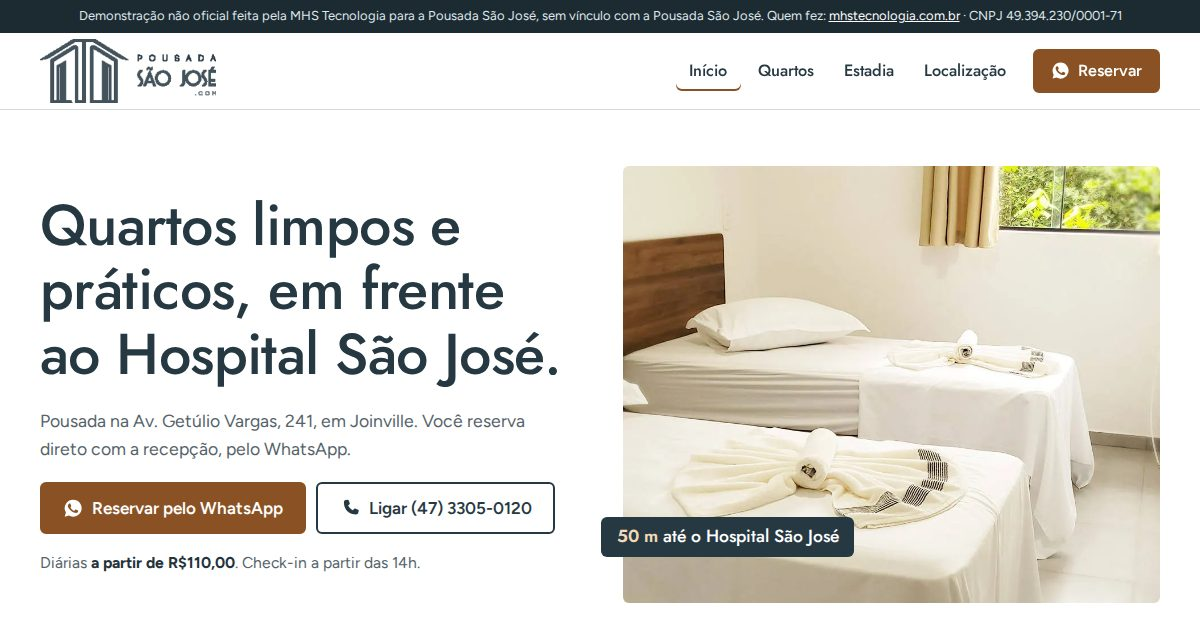
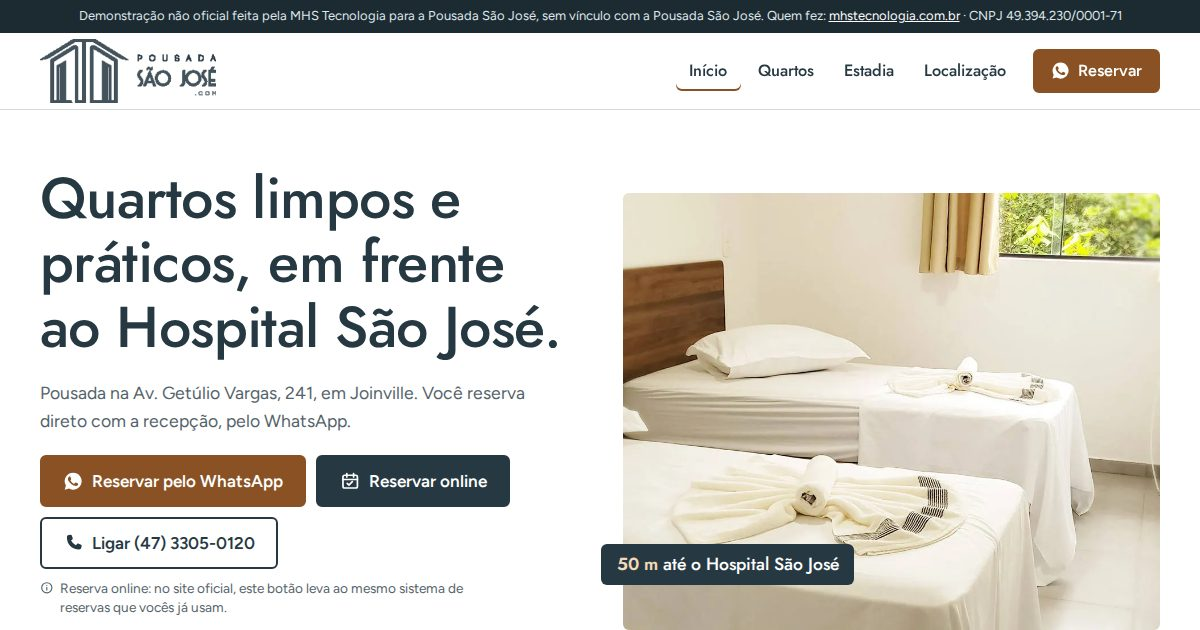
Previews: 90 ativos

diff --git a/pousada-sao-jose-joinville-sc/quartos.html b/pousada-sao-jose-joinville-sc/quartos.html
@@ -30,7 +30,7 @@
     <h1>Os quartos</h1>
     <p class="intro">São 15 quartos, do solteiro aos quartos para grupos. Todos com Wi-Fi gratuito e ar-condicionado, e há quartos para não fumantes: é só avisar na reserva.</p>
     <div class="faixa-preco"><span>a partir de</span><span class="v">R$110,00</span><span>a diária, conforme o quarto</span></div>
-    <div class="acoes" id="cta"><a class="btn" href="https://wa.me/554733050120?text=Ol%C3%A1%21%20Vi%20o%20site%20da%20Pousada%20S%C3%A3o%20Jos%C3%A9%20e%20quero%20consultar%20disponibilidade.%0AEntrada%3A%20%0ASa%C3%ADda%3A%20%0APessoas%3A%20"><svg class="ico" viewBox="0 0 24 24" aria-hidden="true"><path fill="currentColor" d="M12 2a10 10 0 0 0-8.6 15.1L2 22l5-1.3A10 10 0 1 0 12 2Zm5.7 14.2c-.2.7-1.4 1.3-2 1.4-.5.1-1.2.1-1.9-.1-.4-.1-1-.3-1.7-.6-3-1.3-4.9-4.3-5.1-4.5-.1-.2-1.2-1.6-1.2-3 0-1.4.8-2.1 1-2.4.3-.3.6-.4.8-.4h.6c.2 0 .4 0 .6.5l.8 2c.1.2.1.4 0 .6l-.3.5-.4.5c-.1.1-.3.3-.1.6.2.3.8 1.3 1.7 2.1 1.2 1 2.1 1.4 2.4 1.5.3.1.5.1.7-.1l.9-1.1c.2-.3.4-.2.7-.1l1.9.9c.3.1.5.2.6.3.1.2.1.8-.1 1.4Z"/></svg>Consultar disponibilidade</a><a class="btn btn-2" href="tel:+554733050120"><svg class="ico" viewBox="0 0 24 24" aria-hidden="true"><path fill="currentColor" d="M6.6 2.5 9 2c.5-.1 1 .2 1.2.7l1.3 3.5c.2.4 0 .9-.3 1.2L9.5 8.9a13 13 0 0 0 5.6 5.6l1.5-1.7c.3-.3.8-.5 1.2-.3l3.5 1.3c.5.2.8.7.7 1.2l-.5 2.4c-.3 1.2-1.3 2-2.5 2C10.4 19.4 4.6 13.6 4.6 5c0-1.2.8-2.2 2-2.5Z"/></svg>Ligar (47) 3305-0120</a></div>
+    <div class="acoes" id="cta"><a class="btn" href="https://wa.me/554733050120?text=Ol%C3%A1%21%20Vi%20o%20site%20da%20Pousada%20S%C3%A3o%20Jos%C3%A9%20e%20quero%20consultar%20disponibilidade.%0AEntrada%3A%20%0ASa%C3%ADda%3A%20%0APessoas%3A%20"><svg class="ico" viewBox="0 0 24 24" aria-hidden="true"><path fill="currentColor" d="M12 2a10 10 0 0 0-8.6 15.1L2 22l5-1.3A10 10 0 1 0 12 2Zm5.7 14.2c-.2.7-1.4 1.3-2 1.4-.5.1-1.2.1-1.9-.1-.4-.1-1-.3-1.7-.6-3-1.3-4.9-4.3-5.1-4.5-.1-.2-1.2-1.6-1.2-3 0-1.4.8-2.1 1-2.4.3-.3.6-.4.8-.4h.6c.2 0 .4 0 .6.5l.8 2c.1.2.1.4 0 .6l-.3.5-.4.5c-.1.1-.3.3-.1.6.2.3.8 1.3 1.7 2.1 1.2 1 2.1 1.4 2.4 1.5.3.1.5.1.7-.1l.9-1.1c.2-.3.4-.2.7-.1l1.9.9c.3.1.5.2.6.3.1.2.1.8-.1 1.4Z"/></svg>Consultar disponibilidade</a><span class="btn btn-online" aria-disabled="true" title="No site oficial, abre o sistema de reservas da pousada"><svg class="ico" viewBox="0 0 24 24" fill="none" stroke="currentColor" stroke-width="2" stroke-linecap="round" aria-hidden="true"><rect x="3.5" y="5" width="17" height="15" rx="2"/><path d="M3.5 10h17M8 3v4M16 3v4M8.5 14.5l2 2 4-4"/></svg>Reservar online</span><a class="btn btn-2" href="tel:+554733050120"><svg class="ico" viewBox="0 0 24 24" aria-hidden="true"><path fill="currentColor" d="M6.6 2.5 9 2c.5-.1 1 .2 1.2.7l1.3 3.5c.2.4 0 .9-.3 1.2L9.5 8.9a13 13 0 0 0 5.6 5.6l1.5-1.7c.3-.3.8-.5 1.2-.3l3.5 1.3c.5.2.8.7.7 1.2l-.5 2.4c-.3 1.2-1.3 2-2.5 2C10.4 19.4 4.6 13.6 4.6 5c0-1.2.8-2.2 2-2.5Z"/></svg>Ligar<span class="num">&nbsp;(47) 3305-0120</span></a></div><p class="nota-online"><svg class="ico" viewBox="0 0 24 24" fill="none" stroke="currentColor" stroke-width="2" stroke-linecap="round" aria-hidden="true"><circle cx="12" cy="12" r="9"/><path d="M12 11v5M12 8h.01"/></svg>Reserva online: no site oficial, este botão leva ao mesmo sistema de reservas que vocês já usam.</p>
     <h2 style="margin:44px 0 0">Escolha o tipo de quarto</h2>
     <div class="tipos"><article class="tipo com-foto"><figure class="tipo-foto"><img src="img/quarto-janela-944.webp" width="944" height="768" alt="Foto do quarto: 1 cama de solteiro" loading="lazy" decoding="async"></figure><div class="tipo-txt"><h3>Duplo Solteiro A/C</h3><ul class="tipo-l"><li>1 cama de solteiro</li><li>Banheiro compartilhado</li></ul><a class="btn btn-p" href="https://wa.me/554733050120?text=Ol%C3%A1%21%20Vi%20o%20site%20da%20Pousada%20S%C3%A3o%20Jos%C3%A9%20e%20quero%20reservar%20o%20quarto%20Duplo%20Solteiro%20A%2FC.%0AEntrada%3A%20%0ASa%C3%ADda%3A%20%0APessoas%3A%20"><svg class="ico" viewBox="0 0 24 24" aria-hidden="true"><path fill="currentColor" d="M12 2a10 10 0 0 0-8.6 15.1L2 22l5-1.3A10 10 0 1 0 12 2Zm5.7 14.2c-.2.7-1.4 1.3-2 1.4-.5.1-1.2.1-1.9-.1-.4-.1-1-.3-1.7-.6-3-1.3-4.9-4.3-5.1-4.5-.1-.2-1.2-1.6-1.2-3 0-1.4.8-2.1 1-2.4.3-.3.6-.4.8-.4h.6c.2 0 .4 0 .6.5l.8 2c.1.2.1.4 0 .6l-.3.5-.4.5c-.1.1-.3.3-.1.6.2.3.8 1.3 1.7 2.1 1.2 1 2.1 1.4 2.4 1.5.3.1.5.1.7-.1l.9-1.1c.2-.3.4-.2.7-.1l1.9.9c.3.1.5.2.6.3.1.2.1.8-.1 1.4Z"/></svg>Reservar Duplo Solteiro A/C</a></div></article><article class="tipo com-foto"><figure class="tipo-foto"><img src="img/quarto-duas-camas-944.webp" width="944" height="768" alt="Foto do quarto: 2 camas de solteiro" loading="lazy" decoding="async"></figure><div class="tipo-txt"><h3>Suíte Duplo</h3><ul class="tipo-l"><li>2 camas de solteiro</li><li>Banheiro no quarto</li></ul><a class="btn btn-p" href="https://wa.me/554733050120?text=Ol%C3%A1%21%20Vi%20o%20site%20da%20Pousada%20S%C3%A3o%20Jos%C3%A9%20e%20quero%20reservar%20o%20quarto%20Su%C3%ADte%20Duplo.%0AEntrada%3A%20%0ASa%C3%ADda%3A%20%0APessoas%3A%20"><svg class="ico" viewBox="0 0 24 24" aria-hidden="true"><path fill="currentColor" d="M12 2a10 10 0 0 0-8.6 15.1L2 22l5-1.3A10 10 0 1 0 12 2Zm5.7 14.2c-.2.7-1.4 1.3-2 1.4-.5.1-1.2.1-1.9-.1-.4-.1-1-.3-1.7-.6-3-1.3-4.9-4.3-5.1-4.5-.1-.2-1.2-1.6-1.2-3 0-1.4.8-2.1 1-2.4.3-.3.6-.4.8-.4h.6c.2 0 .4 0 .6.5l.8 2c.1.2.1.4 0 .6l-.3.5-.4.5c-.1.1-.3.3-.1.6.2.3.8 1.3 1.7 2.1 1.2 1 2.1 1.4 2.4 1.5.3.1.5.1.7-.1l.9-1.1c.2-.3.4-.2.7-.1l1.9.9c.3.1.5.2.6.3.1.2.1.8-.1 1.4Z"/></svg>Reservar Suíte Duplo</a></div></article></div>
     <div class="linhas"><article class="tipo"><svg class="planta" viewBox="0 0 80 72" role="img" aria-label="Planta das camas: 1 cama de casal"><rect class="sala" x="2" y="2" width="76" height="66" rx="4"/><rect x="14" y="14" width="34" height="44" rx="3"/><rect class="trav" x="17" y="17" width="28" height="9" rx="2"/></svg><div class="tipo-txt"><h3>Casal Suíte</h3><ul class="tipo-l"><li>1 cama de casal</li><li>Banheiro no quarto</li></ul><a class="btn btn-p" href="https://wa.me/554733050120?text=Ol%C3%A1%21%20Vi%20o%20site%20da%20Pousada%20S%C3%A3o%20Jos%C3%A9%20e%20quero%20reservar%20o%20quarto%20Casal%20Su%C3%ADte.%0AEntrada%3A%20%0ASa%C3%ADda%3A%20%0APessoas%3A%20"><svg class="ico" viewBox="0 0 24 24" aria-hidden="true"><path fill="currentColor" d="M12 2a10 10 0 0 0-8.6 15.1L2 22l5-1.3A10 10 0 1 0 12 2Zm5.7 14.2c-.2.7-1.4 1.3-2 1.4-.5.1-1.2.1-1.9-.1-.4-.1-1-.3-1.7-.6-3-1.3-4.9-4.3-5.1-4.5-.1-.2-1.2-1.6-1.2-3 0-1.4.8-2.1 1-2.4.3-.3.6-.4.8-.4h.6c.2 0 .4 0 .6.5l.8 2c.1.2.1.4 0 .6l-.3.5-.4.5c-.1.1-.3.3-.1.6.2.3.8 1.3 1.7 2.1 1.2 1 2.1 1.4 2.4 1.5.3.1.5.1.7-.1l.9-1.1c.2-.3.4-.2.7-.1l1.9.9c.3.1.5.2.6.3.1.2.1.8-.1 1.4Z"/></svg>Reservar Casal Suíte</a></div></article><article class="tipo"><svg class="planta" viewBox="0 0 80 72" role="img" aria-label="Planta das camas: 1 cama de casal"><rect class="sala" x="2" y="2" width="76" height="66" rx="4"/><rect x="14" y="14" width="34" height="44" rx="3"/><rect class="trav" x="17" y="17" width="28" height="9" rx="2"/></svg><div class="tipo-txt"><h3>Casal A/C</h3><ul class="tipo-l"><li>1 cama de casal</li><li>Banheiro compartilhado</li></ul><a class="btn btn-p" href="https://wa.me/554733050120?text=Ol%C3%A1%21%20Vi%20o%20site%20da%20Pousada%20S%C3%A3o%20Jos%C3%A9%20e%20quero%20reservar%20o%20quarto%20Casal%20A%2FC.%0AEntrada%3A%20%0ASa%C3%ADda%3A%20%0APessoas%3A%20"><svg class="ico" viewBox="0 0 24 24" aria-hidden="true"><path fill="currentColor" d="M12 2a10 10 0 0 0-8.6 15.1L2 22l5-1.3A10 10 0 1 0 12 2Zm5.7 14.2c-.2.7-1.4 1.3-2 1.4-.5.1-1.2.1-1.9-.1-.4-.1-1-.3-1.7-.6-3-1.3-4.9-4.3-5.1-4.5-.1-.2-1.2-1.6-1.2-3 0-1.4.8-2.1 1-2.4.3-.3.6-.4.8-.4h.6c.2 0 .4 0 .6.5l.8 2c.1.2.1.4 0 .6l-.3.5-.4.5c-.1.1-.3.3-.1.6.2.3.8 1.3 1.7 2.1 1.2 1 2.1 1.4 2.4 1.5.3.1.5.1.7-.1l.9-1.1c.2-.3.4-.2.7-.1l1.9.9c.3.1.5.2.6.3.1.2.1.8-.1 1.4Z"/></svg>Reservar Casal A/C</a></div></article><article class="tipo"><svg class="planta" viewBox="0 0 80 72" role="img" aria-label="Planta das camas: 2 camas de solteiro (beliche)"><rect class="sala" x="2" y="2" width="76" height="66" rx="4"/><rect x="14" y="14" width="20" height="44" rx="3"/><rect class="trav" x="17" y="17" width="14" height="9" rx="2"/><rect class="beli" x="18" y="10" width="20" height="44" rx="3"/></svg><div class="tipo-txt"><h3>Beliche 2 pessoas</h3><ul class="tipo-l"><li>2 camas de solteiro (beliche)</li></ul><a class="btn btn-p" href="https://wa.me/554733050120?text=Ol%C3%A1%21%20Vi%20o%20site%20da%20Pousada%20S%C3%A3o%20Jos%C3%A9%20e%20quero%20reservar%20o%20quarto%20Beliche%202%20pessoas.%0AEntrada%3A%20%0ASa%C3%ADda%3A%20%0APessoas%3A%20"><svg class="ico" viewBox="0 0 24 24" aria-hidden="true"><path fill="currentColor" d="M12 2a10 10 0 0 0-8.6 15.1L2 22l5-1.3A10 10 0 1 0 12 2Zm5.7 14.2c-.2.7-1.4 1.3-2 1.4-.5.1-1.2.1-1.9-.1-.4-.1-1-.3-1.7-.6-3-1.3-4.9-4.3-5.1-4.5-.1-.2-1.2-1.6-1.2-3 0-1.4.8-2.1 1-2.4.3-.3.6-.4.8-.4h.6c.2 0 .4 0 .6.5l.8 2c.1.2.1.4 0 .6l-.3.5-.4.5c-.1.1-.3.3-.1.6.2.3.8 1.3 1.7 2.1 1.2 1 2.1 1.4 2.4 1.5.3.1.5.1.7-.1l.9-1.1c.2-.3.4-.2.7-.1l1.9.9c.3.1.5.2.6.3.1.2.1.8-.1 1.4Z"/></svg>Reservar Beliche 2 pessoas</a></div></article><article class="tipo"><svg class="planta" viewBox="0 0 80 72" role="img" aria-label="Planta das camas: 4 camas de solteiro (beliches)"><rect class="sala" x="2" y="2" width="76" height="66" rx="4"/><rect x="14" y="14" width="20" height="44" rx="3"/><rect class="trav" x="17" y="17" width="14" height="9" rx="2"/><rect class="beli" x="18" y="10" width="20" height="44" rx="3"/><rect x="44" y="14" width="20" height="44" rx="3"/><rect class="trav" x="47" y="17" width="14" height="9" rx="2"/><rect class="beli" x="48" y="10" width="20" height="44" rx="3"/></svg><div class="tipo-txt"><span class="tag">Bom para grupos do Festival</span><h3>Beliche 4 pessoas</h3><ul class="tipo-l"><li>4 camas de solteiro (beliches)</li><li>Banheiro compartilhado</li></ul><a class="btn btn-p" href="https://wa.me/554733050120?text=Ol%C3%A1%21%20Vi%20o%20site%20da%20Pousada%20S%C3%A3o%20Jos%C3%A9%20e%20quero%20reservar%20o%20quarto%20Beliche%204%20pessoas.%0AEntrada%3A%20%0ASa%C3%ADda%3A%20%0APessoas%3A%20"><svg class="ico" viewBox="0 0 24 24" aria-hidden="true"><path fill="currentColor" d="M12 2a10 10 0 0 0-8.6 15.1L2 22l5-1.3A10 10 0 1 0 12 2Zm5.7 14.2c-.2.7-1.4 1.3-2 1.4-.5.1-1.2.1-1.9-.1-.4-.1-1-.3-1.7-.6-3-1.3-4.9-4.3-5.1-4.5-.1-.2-1.2-1.6-1.2-3 0-1.4.8-2.1 1-2.4.3-.3.6-.4.8-.4h.6c.2 0 .4 0 .6.5l.8 2c.1.2.1.4 0 .6l-.3.5-.4.5c-.1.1-.3.3-.1.6.2.3.8 1.3 1.7 2.1 1.2 1 2.1 1.4 2.4 1.5.3.1.5.1.7-.1l.9-1.1c.2-.3.4-.2.7-.1l1.9.9c.3.1.5.2.6.3.1.2.1.8-.1 1.4Z"/></svg>Reservar Beliche 4 pessoas</a></div></article><article class="tipo"><svg class="planta" viewBox="0 0 138 72" role="img" aria-label="Planta das camas: 4 camas de solteiro"><rect class="sala" x="2" y="2" width="134" height="66" rx="4"/><rect x="14" y="14" width="20" height="44" rx="3"/><rect class="trav" x="17" y="17" width="14" height="9" rx="2"/><rect x="44" y="14" width="20" height="44" rx="3"/><rect class="trav" x="47" y="17" width="14" height="9" rx="2"/><rect x="74" y="14" width="20" height="44" rx="3"/><rect class="trav" x="77" y="17" width="14" height="9" rx="2"/><rect x="104" y="14" width="20" height="44" rx="3"/><rect class="trav" x="107" y="17" width="14" height="9" rx="2"/></svg><div class="tipo-txt"><span class="tag">Bom para grupos do Festival</span><h3>Simples 4 Pessoas</h3><ul class="tipo-l"><li>4 camas de solteiro</li><li>Banheiro compartilhado</li></ul><a class="btn btn-p" href="https://wa.me/554733050120?text=Ol%C3%A1%21%20Vi%20o%20site%20da%20Pousada%20S%C3%A3o%20Jos%C3%A9%20e%20quero%20reservar%20o%20quarto%20Simples%204%20Pessoas.%0AEntrada%3A%20%0ASa%C3%ADda%3A%20%0APessoas%3A%20"><svg class="ico" viewBox="0 0 24 24" aria-hidden="true"><path fill="currentColor" d="M12 2a10 10 0 0 0-8.6 15.1L2 22l5-1.3A10 10 0 1 0 12 2Zm5.7 14.2c-.2.7-1.4 1.3-2 1.4-.5.1-1.2.1-1.9-.1-.4-.1-1-.3-1.7-.6-3-1.3-4.9-4.3-5.1-4.5-.1-.2-1.2-1.6-1.2-3 0-1.4.8-2.1 1-2.4.3-.3.6-.4.8-.4h.6c.2 0 .4 0 .6.5l.8 2c.1.2.1.4 0 .6l-.3.5-.4.5c-.1.1-.3.3-.1.6.2.3.8 1.3 1.7 2.1 1.2 1 2.1 1.4 2.4 1.5.3.1.5.1.7-.1l.9-1.1c.2-.3.4-.2.7-.1l1.9.9c.3.1.5.2.6.3.1.2.1.8-.1 1.4Z"/></svg>Reservar Simples 4 Pessoas</a></div></article><article class="tipo"><svg class="planta" viewBox="0 0 122 72" role="img" aria-label="Planta das camas: 1 cama de solteiro, 1 de casal e 1 beliche"><rect class="sala" x="2" y="2" width="118" height="66" rx="4"/><rect x="14" y="14" width="20" height="44" rx="3"/><rect class="trav" x="17" y="17" width="14" height="9" rx="2"/><rect x="44" y="14" width="34" height="44" rx="3"/><rect class="trav" x="47" y="17" width="28" height="9" rx="2"/><rect x="88" y="14" width="20" height="44" rx="3"/><rect class="trav" x="91" y="17" width="14" height="9" rx="2"/><rect class="beli" x="92" y="10" width="20" height="44" rx="3"/></svg><div class="tipo-txt"><span class="tag">Bom para grupos do Festival</span><h3>Triplo Suíte</h3><ul class="tipo-l"><li>1 cama de solteiro, 1 de casal e 1 beliche</li><li>Suíte</li></ul><a class="btn btn-p" href="https://wa.me/554733050120?text=Ol%C3%A1%21%20Vi%20o%20site%20da%20Pousada%20S%C3%A3o%20Jos%C3%A9%20e%20quero%20reservar%20o%20quarto%20Triplo%20Su%C3%ADte.%0AEntrada%3A%20%0ASa%C3%ADda%3A%20%0APessoas%3A%20"><svg class="ico" viewBox="0 0 24 24" aria-hidden="true"><path fill="currentColor" d="M12 2a10 10 0 0 0-8.6 15.1L2 22l5-1.3A10 10 0 1 0 12 2Zm5.7 14.2c-.2.7-1.4 1.3-2 1.4-.5.1-1.2.1-1.9-.1-.4-.1-1-.3-1.7-.6-3-1.3-4.9-4.3-5.1-4.5-.1-.2-1.2-1.6-1.2-3 0-1.4.8-2.1 1-2.4.3-.3.6-.4.8-.4h.6c.2 0 .4 0 .6.5l.8 2c.1.2.1.4 0 .6l-.3.5-.4.5c-.1.1-.3.3-.1.6.2.3.8 1.3 1.7 2.1 1.2 1 2.1 1.4 2.4 1.5.3.1.5.1.7-.1l.9-1.1c.2-.3.4-.2.7-.1l1.9.9c.3.1.5.2.6.3.1.2.1.8-.1 1.4Z"/></svg>Reservar Triplo Suíte</a></div></article></div>
@@ -63,7 +63,7 @@
   <div class="caixa">
     <h2>Reserve direto com a recepção</h2>
     <p>Mande as datas pelo WhatsApp. A mensagem já vai pronta: só falta completar a entrada, a saída e quantas pessoas.</p>
-    <div class="acoes"><a class="btn" href="https://wa.me/554733050120?text=Ol%C3%A1%21%20Vi%20o%20site%20da%20Pousada%20S%C3%A3o%20Jos%C3%A9%20e%20quero%20consultar%20disponibilidade.%0AEntrada%3A%20%0ASa%C3%ADda%3A%20%0APessoas%3A%20"><svg class="ico" viewBox="0 0 24 24" aria-hidden="true"><path fill="currentColor" d="M12 2a10 10 0 0 0-8.6 15.1L2 22l5-1.3A10 10 0 1 0 12 2Zm5.7 14.2c-.2.7-1.4 1.3-2 1.4-.5.1-1.2.1-1.9-.1-.4-.1-1-.3-1.7-.6-3-1.3-4.9-4.3-5.1-4.5-.1-.2-1.2-1.6-1.2-3 0-1.4.8-2.1 1-2.4.3-.3.6-.4.8-.4h.6c.2 0 .4 0 .6.5l.8 2c.1.2.1.4 0 .6l-.3.5-.4.5c-.1.1-.3.3-.1.6.2.3.8 1.3 1.7 2.1 1.2 1 2.1 1.4 2.4 1.5.3.1.5.1.7-.1l.9-1.1c.2-.3.4-.2.7-.1l1.9.9c.3.1.5.2.6.3.1.2.1.8-.1 1.4Z"/></svg>Reservar pelo WhatsApp</a><a class="btn btn-2" href="tel:+554733050120"><svg class="ico" viewBox="0 0 24 24" aria-hidden="true"><path fill="currentColor" d="M6.6 2.5 9 2c.5-.1 1 .2 1.2.7l1.3 3.5c.2.4 0 .9-.3 1.2L9.5 8.9a13 13 0 0 0 5.6 5.6l1.5-1.7c.3-.3.8-.5 1.2-.3l3.5 1.3c.5.2.8.7.7 1.2l-.5 2.4c-.3 1.2-1.3 2-2.5 2C10.4 19.4 4.6 13.6 4.6 5c0-1.2.8-2.2 2-2.5Z"/></svg>Ligar (47) 3305-0120</a></div>
+    <div class="acoes"><a class="btn" href="https://wa.me/554733050120?text=Ol%C3%A1%21%20Vi%20o%20site%20da%20Pousada%20S%C3%A3o%20Jos%C3%A9%20e%20quero%20consultar%20disponibilidade.%0AEntrada%3A%20%0ASa%C3%ADda%3A%20%0APessoas%3A%20"><svg class="ico" viewBox="0 0 24 24" aria-hidden="true"><path fill="currentColor" d="M12 2a10 10 0 0 0-8.6 15.1L2 22l5-1.3A10 10 0 1 0 12 2Zm5.7 14.2c-.2.7-1.4 1.3-2 1.4-.5.1-1.2.1-1.9-.1-.4-.1-1-.3-1.7-.6-3-1.3-4.9-4.3-5.1-4.5-.1-.2-1.2-1.6-1.2-3 0-1.4.8-2.1 1-2.4.3-.3.6-.4.8-.4h.6c.2 0 .4 0 .6.5l.8 2c.1.2.1.4 0 .6l-.3.5-.4.5c-.1.1-.3.3-.1.6.2.3.8 1.3 1.7 2.1 1.2 1 2.1 1.4 2.4 1.5.3.1.5.1.7-.1l.9-1.1c.2-.3.4-.2.7-.1l1.9.9c.3.1.5.2.6.3.1.2.1.8-.1 1.4Z"/></svg>Reservar pelo WhatsApp</a><span class="btn btn-online" aria-disabled="true" title="No site oficial, abre o sistema de reservas da pousada"><svg class="ico" viewBox="0 0 24 24" fill="none" stroke="currentColor" stroke-width="2" stroke-linecap="round" aria-hidden="true"><rect x="3.5" y="5" width="17" height="15" rx="2"/><path d="M3.5 10h17M8 3v4M16 3v4M8.5 14.5l2 2 4-4"/></svg>Reservar online</span><a class="btn btn-2" href="tel:+554733050120"><svg class="ico" viewBox="0 0 24 24" aria-hidden="true"><path fill="currentColor" d="M6.6 2.5 9 2c.5-.1 1 .2 1.2.7l1.3 3.5c.2.4 0 .9-.3 1.2L9.5 8.9a13 13 0 0 0 5.6 5.6l1.5-1.7c.3-.3.8-.5 1.2-.3l3.5 1.3c.5.2.8.7.7 1.2l-.5 2.4c-.3 1.2-1.3 2-2.5 2C10.4 19.4 4.6 13.6 4.6 5c0-1.2.8-2.2 2-2.5Z"/></svg>Ligar<span class="num">&nbsp;(47) 3305-0120</span></a></div><p class="nota-online"><svg class="ico" viewBox="0 0 24 24" fill="none" stroke="currentColor" stroke-width="2" stroke-linecap="round" aria-hidden="true"><circle cx="12" cy="12" r="9"/><path d="M12 11v5M12 8h.01"/></svg>Reserva online: no site oficial, este botão leva ao mesmo sistema de reservas que vocês já usam.</p>
   </div>
 </section>
 </main>

diff --git a/pousada-sao-jose-joinville-sc/index.html b/pousada-sao-jose-joinville-sc/index.html
@@ -46,7 +46,7 @@
     <div>
       <h1>Quartos limpos e práticos, em frente ao Hospital São José.</h1>
       <p class="lead">Pousada na Av. Getúlio Vargas, 241, em Joinville. Você reserva direto com a recepção, pelo WhatsApp.</p>
-      <div class="acoes" id="cta"><a class="btn" href="https://wa.me/554733050120?text=Ol%C3%A1%21%20Vi%20o%20site%20da%20Pousada%20S%C3%A3o%20Jos%C3%A9%20e%20quero%20consultar%20disponibilidade.%0AEntrada%3A%20%0ASa%C3%ADda%3A%20%0APessoas%3A%20"><svg class="ico" viewBox="0 0 24 24" aria-hidden="true"><path fill="currentColor" d="M12 2a10 10 0 0 0-8.6 15.1L2 22l5-1.3A10 10 0 1 0 12 2Zm5.7 14.2c-.2.7-1.4 1.3-2 1.4-.5.1-1.2.1-1.9-.1-.4-.1-1-.3-1.7-.6-3-1.3-4.9-4.3-5.1-4.5-.1-.2-1.2-1.6-1.2-3 0-1.4.8-2.1 1-2.4.3-.3.6-.4.8-.4h.6c.2 0 .4 0 .6.5l.8 2c.1.2.1.4 0 .6l-.3.5-.4.5c-.1.1-.3.3-.1.6.2.3.8 1.3 1.7 2.1 1.2 1 2.1 1.4 2.4 1.5.3.1.5.1.7-.1l.9-1.1c.2-.3.4-.2.7-.1l1.9.9c.3.1.5.2.6.3.1.2.1.8-.1 1.4Z"/></svg>Reservar pelo WhatsApp</a><a class="btn btn-2" href="tel:+554733050120"><svg class="ico" viewBox="0 0 24 24" aria-hidden="true"><path fill="currentColor" d="M6.6 2.5 9 2c.5-.1 1 .2 1.2.7l1.3 3.5c.2.4 0 .9-.3 1.2L9.5 8.9a13 13 0 0 0 5.6 5.6l1.5-1.7c.3-.3.8-.5 1.2-.3l3.5 1.3c.5.2.8.7.7 1.2l-.5 2.4c-.3 1.2-1.3 2-2.5 2C10.4 19.4 4.6 13.6 4.6 5c0-1.2.8-2.2 2-2.5Z"/></svg>Ligar (47) 3305-0120</a></div>
+      <div class="acoes" id="cta"><a class="btn" href="https://wa.me/554733050120?text=Ol%C3%A1%21%20Vi%20o%20site%20da%20Pousada%20S%C3%A3o%20Jos%C3%A9%20e%20quero%20consultar%20disponibilidade.%0AEntrada%3A%20%0ASa%C3%ADda%3A%20%0APessoas%3A%20"><svg class="ico" viewBox="0 0 24 24" aria-hidden="true"><path fill="currentColor" d="M12 2a10 10 0 0 0-8.6 15.1L2 22l5-1.3A10 10 0 1 0 12 2Zm5.7 14.2c-.2.7-1.4 1.3-2 1.4-.5.1-1.2.1-1.9-.1-.4-.1-1-.3-1.7-.6-3-1.3-4.9-4.3-5.1-4.5-.1-.2-1.2-1.6-1.2-3 0-1.4.8-2.1 1-2.4.3-.3.6-.4.8-.4h.6c.2 0 .4 0 .6.5l.8 2c.1.2.1.4 0 .6l-.3.5-.4.5c-.1.1-.3.3-.1.6.2.3.8 1.3 1.7 2.1 1.2 1 2.1 1.4 2.4 1.5.3.1.5.1.7-.1l.9-1.1c.2-.3.4-.2.7-.1l1.9.9c.3.1.5.2.6.3.1.2.1.8-.1 1.4Z"/></svg>Reservar pelo WhatsApp</a><span class="btn btn-online" aria-disabled="true" title="No site oficial, abre o sistema de reservas da pousada"><svg class="ico" viewBox="0 0 24 24" fill="none" stroke="currentColor" stroke-width="2" stroke-linecap="round" aria-hidden="true"><rect x="3.5" y="5" width="17" height="15" rx="2"/><path d="M3.5 10h17M8 3v4M16 3v4M8.5 14.5l2 2 4-4"/></svg>Reservar online</span><a class="btn btn-2" href="tel:+554733050120"><svg class="ico" viewBox="0 0 24 24" aria-hidden="true"><path fill="currentColor" d="M6.6 2.5 9 2c.5-.1 1 .2 1.2.7l1.3 3.5c.2.4 0 .9-.3 1.2L9.5 8.9a13 13 0 0 0 5.6 5.6l1.5-1.7c.3-.3.8-.5 1.2-.3l3.5 1.3c.5.2.8.7.7 1.2l-.5 2.4c-.3 1.2-1.3 2-2.5 2C10.4 19.4 4.6 13.6 4.6 5c0-1.2.8-2.2 2-2.5Z"/></svg>Ligar<span class="num">&nbsp;(47) 3305-0120</span></a></div><p class="nota-online"><svg class="ico" viewBox="0 0 24 24" fill="none" stroke="currentColor" stroke-width="2" stroke-linecap="round" aria-hidden="true"><circle cx="12" cy="12" r="9"/><path d="M12 11v5M12 8h.01"/></svg>Reserva online: no site oficial, este botão leva ao mesmo sistema de reservas que vocês já usam.</p>
       <p class="preco">Diárias <strong>a partir de R$110,00</strong>. Check-in a partir das 14h.</p>
     </div>
   </div>
@@ -73,12 +73,28 @@
   </div>
 </section>
 
-<section class="faixa" aria-labelledby="t-quem">
+<section class="faixa acomp" aria-labelledby="t-acomp">
+  <div class="caixa duas">
+    <div>
+      <h2 id="t-acomp">Para quem acompanha alguém no Hospital São José</h2>
+      <p class="intro">A pousada foi planejada para facilitar a rotina de quem faz tratamento no hospital. Na prática, o dia de um acompanhante fica assim:</p>
+      <ol class="dia">
+        <li><span class="h">14h</span><span><b>Check-in a partir das 14h</b>Check-out até as 11h.</span></li>
+        <li><span class="h">50 m</span><span><b>O hospital do outro lado da avenida</b>Dá para ir e voltar a pé quantas vezes precisar.</span></li>
+        <li><span class="h">100 m</span><span><b>Comida sem complicação</b>Cozinha coletiva com micro-ondas e chaleira elétrica, delivery recebido na portaria e a Padaria e Doceria São José a 100 m.</span></li>
+        <li><span class="h">22h</span><span><b>Recepção até as 22h, todos os dias</b>Para o que precisar durante a estadia.</span></li>
+      </ol>
+    </div>
+    <figure><img src="img/sala-944.webp" width="944" height="768" alt="Sala de estar da pousada com sofá e escada para os quartos" loading="lazy" decoding="async"><figcaption>A sala de estar da pousada.</figcaption></figure>
+  </div>
+</section>
+
+<section class="faixa faixa-piso" aria-labelledby="t-quem">
   <div class="caixa">
     <h2 id="t-quem">Pensada para quem veio a Joinville por um motivo</h2>
     <p class="intro">A pousada foi planejada para facilitar a rotina de quem precisa ficar perto de onde tem compromisso.</p>
     <div class="motivos">
-      <div><h3>Tratamento no hospital</h3><p>Paciente ou acompanhante do Hospital São José atravessa a avenida e chega.</p></div>
+      <div><h3>Famílias</h3><p>Ambiente acolhedor e seguro, ideal para hóspedes em família.</p></div>
       <div><h3>Pré-natal na maternidade</h3><p>A Maternidade Darci Vargas fica a 500 m da pousada.</p></div>
       <div><h3>Aulas na ACE ou na Univille</h3><p>190 m até a ACE e 250 m até a Univille (Centro).</p></div>
       <div><h3>Festival de Dança</h3><p>Em média 12 minutos a pé até o centro, onde acontecem várias apresentações.</p></div>
@@ -86,7 +102,7 @@
   </div>
 </section>
 
-<section class="faixa faixa-piso" aria-labelledby="t-quartos">
+<section class="faixa" aria-labelledby="t-quartos">
   <div class="caixa duas">
     <div>
       <h2 id="t-quartos">Quartos simples, claros e com ar-condicionado</h2>
@@ -103,7 +119,7 @@
   </div>
 </section>
 
-<section class="faixa" aria-labelledby="t-tem">
+<section class="faixa faixa-piso" aria-labelledby="t-tem">
   <div class="caixa">
     <h2 id="t-tem">O que a pousada oferece</h2>
     <ul class="itens col2">
@@ -127,7 +143,7 @@
       <li><b>Combine o quarto e a diária</b>Diárias a partir de R$110,00, conforme o quarto. Pergunte pelos planos.</li>
       <li><b>Pague antecipado para garantir</b>Cancelando em até 7 dias, a pousada pode estornar o valor.</li>
     </ol>
-    <div class="fecho" style="margin-top:30px"><div class="acoes"><a class="btn" href="https://wa.me/554733050120?text=Ol%C3%A1%21%20Vi%20o%20site%20da%20Pousada%20S%C3%A3o%20Jos%C3%A9%20e%20quero%20consultar%20disponibilidade.%0AEntrada%3A%20%0ASa%C3%ADda%3A%20%0APessoas%3A%20"><svg class="ico" viewBox="0 0 24 24" aria-hidden="true"><path fill="currentColor" d="M12 2a10 10 0 0 0-8.6 15.1L2 22l5-1.3A10 10 0 1 0 12 2Zm5.7 14.2c-.2.7-1.4 1.3-2 1.4-.5.1-1.2.1-1.9-.1-.4-.1-1-.3-1.7-.6-3-1.3-4.9-4.3-5.1-4.5-.1-.2-1.2-1.6-1.2-3 0-1.4.8-2.1 1-2.4.3-.3.6-.4.8-.4h.6c.2 0 .4 0 .6.5l.8 2c.1.2.1.4 0 .6l-.3.5-.4.5c-.1.1-.3.3-.1.6.2.3.8 1.3 1.7 2.1 1.2 1 2.1 1.4 2.4 1.5.3.1.5.1.7-.1l.9-1.1c.2-.3.4-.2.7-.1l1.9.9c.3.1.5.2.6.3.1.2.1.8-.1 1.4Z"/></svg>Reservar pelo WhatsApp</a><a class="btn btn-2" href="tel:+554733050120"><svg class="ico" viewBox="0 0 24 24" aria-hidden="true"><path fill="currentColor" d="M6.6 2.5 9 2c.5-.1 1 .2 1.2.7l1.3 3.5c.2.4 0 .9-.3 1.2L9.5 8.9a13 13 0 0 0 5.6 5.6l1.5-1.7c.3-.3.8-.5 1.2-.3l3.5 1.3c.5.2.8.7.7 1.2l-.5 2.4c-.3 1.2-1.3 2-2.5 2C10.4 19.4 4.6 13.6 4.6 5c0-1.2.8-2.2 2-2.5Z"/></svg>Ligar (47) 3305-0120</a></div></div>
+    <div class="fecho" style="margin-top:30px"><div class="acoes"><a class="btn" href="https://wa.me/554733050120?text=Ol%C3%A1%21%20Vi%20o%20site%20da%20Pousada%20S%C3%A3o%20Jos%C3%A9%20e%20quero%20consultar%20disponibilidade.%0AEntrada%3A%20%0ASa%C3%ADda%3A%20%0APessoas%3A%20"><svg class="ico" viewBox="0 0 24 24" aria-hidden="true"><path fill="currentColor" d="M12 2a10 10 0 0 0-8.6 15.1L2 22l5-1.3A10 10 0 1 0 12 2Zm5.7 14.2c-.2.7-1.4 1.3-2 1.4-.5.1-1.2.1-1.9-.1-.4-.1-1-.3-1.7-.6-3-1.3-4.9-4.3-5.1-4.5-.1-.2-1.2-1.6-1.2-3 0-1.4.8-2.1 1-2.4.3-.3.6-.4.8-.4h.6c.2 0 .4 0 .6.5l.8 2c.1.2.1.4 0 .6l-.3.5-.4.5c-.1.1-.3.3-.1.6.2.3.8 1.3 1.7 2.1 1.2 1 2.1 1.4 2.4 1.5.3.1.5.1.7-.1l.9-1.1c.2-.3.4-.2.7-.1l1.9.9c.3.1.5.2.6.3.1.2.1.8-.1 1.4Z"/></svg>Reservar pelo WhatsApp</a><span class="btn btn-online" aria-disabled="true" title="No site oficial, abre o sistema de reservas da pousada"><svg class="ico" viewBox="0 0 24 24" fill="none" stroke="currentColor" stroke-width="2" stroke-linecap="round" aria-hidden="true"><rect x="3.5" y="5" width="17" height="15" rx="2"/><path d="M3.5 10h17M8 3v4M16 3v4M8.5 14.5l2 2 4-4"/></svg>Reservar online</span><a class="btn btn-2" href="tel:+554733050120"><svg class="ico" viewBox="0 0 24 24" aria-hidden="true"><path fill="currentColor" d="M6.6 2.5 9 2c.5-.1 1 .2 1.2.7l1.3 3.5c.2.4 0 .9-.3 1.2L9.5 8.9a13 13 0 0 0 5.6 5.6l1.5-1.7c.3-.3.8-.5 1.2-.3l3.5 1.3c.5.2.8.7.7 1.2l-.5 2.4c-.3 1.2-1.3 2-2.5 2C10.4 19.4 4.6 13.6 4.6 5c0-1.2.8-2.2 2-2.5Z"/></svg>Ligar<span class="num">&nbsp;(47) 3305-0120</span></a></div><p class="nota-online"><svg class="ico" viewBox="0 0 24 24" fill="none" stroke="currentColor" stroke-width="2" stroke-linecap="round" aria-hidden="true"><circle cx="12" cy="12" r="9"/><path d="M12 11v5M12 8h.01"/></svg>Reserva online: no site oficial, este botão leva ao mesmo sistema de reservas que vocês já usam.</p></div>
   </div>
 </section>
 </main>

diff --git a/pousada-sao-jose-joinville-sc/estadia.html b/pousada-sao-jose-joinville-sc/estadia.html
@@ -29,7 +29,7 @@
   <div class="caixa">
     <h1>Como é a estadia</h1>
     <p class="intro">Horários, cozinha, estacionamento e o que vale saber antes de chegar.</p>
-    <div class="acoes" id="cta"><a class="btn" href="https://wa.me/554733050120?text=Ol%C3%A1%21%20Vi%20o%20site%20da%20Pousada%20S%C3%A3o%20Jos%C3%A9%20e%20quero%20consultar%20disponibilidade.%0AEntrada%3A%20%0ASa%C3%ADda%3A%20%0APessoas%3A%20"><svg class="ico" viewBox="0 0 24 24" aria-hidden="true"><path fill="currentColor" d="M12 2a10 10 0 0 0-8.6 15.1L2 22l5-1.3A10 10 0 1 0 12 2Zm5.7 14.2c-.2.7-1.4 1.3-2 1.4-.5.1-1.2.1-1.9-.1-.4-.1-1-.3-1.7-.6-3-1.3-4.9-4.3-5.1-4.5-.1-.2-1.2-1.6-1.2-3 0-1.4.8-2.1 1-2.4.3-.3.6-.4.8-.4h.6c.2 0 .4 0 .6.5l.8 2c.1.2.1.4 0 .6l-.3.5-.4.5c-.1.1-.3.3-.1.6.2.3.8 1.3 1.7 2.1 1.2 1 2.1 1.4 2.4 1.5.3.1.5.1.7-.1l.9-1.1c.2-.3.4-.2.7-.1l1.9.9c.3.1.5.2.6.3.1.2.1.8-.1 1.4Z"/></svg>Perguntar pelo WhatsApp</a><a class="btn btn-2" href="tel:+554733050120"><svg class="ico" viewBox="0 0 24 24" aria-hidden="true"><path fill="currentColor" d="M6.6 2.5 9 2c.5-.1 1 .2 1.2.7l1.3 3.5c.2.4 0 .9-.3 1.2L9.5 8.9a13 13 0 0 0 5.6 5.6l1.5-1.7c.3-.3.8-.5 1.2-.3l3.5 1.3c.5.2.8.7.7 1.2l-.5 2.4c-.3 1.2-1.3 2-2.5 2C10.4 19.4 4.6 13.6 4.6 5c0-1.2.8-2.2 2-2.5Z"/></svg>Ligar (47) 3305-0120</a></div>
+    <div class="acoes" id="cta"><a class="btn" href="https://wa.me/554733050120?text=Ol%C3%A1%21%20Vi%20o%20site%20da%20Pousada%20S%C3%A3o%20Jos%C3%A9%20e%20quero%20consultar%20disponibilidade.%0AEntrada%3A%20%0ASa%C3%ADda%3A%20%0APessoas%3A%20"><svg class="ico" viewBox="0 0 24 24" aria-hidden="true"><path fill="currentColor" d="M12 2a10 10 0 0 0-8.6 15.1L2 22l5-1.3A10 10 0 1 0 12 2Zm5.7 14.2c-.2.7-1.4 1.3-2 1.4-.5.1-1.2.1-1.9-.1-.4-.1-1-.3-1.7-.6-3-1.3-4.9-4.3-5.1-4.5-.1-.2-1.2-1.6-1.2-3 0-1.4.8-2.1 1-2.4.3-.3.6-.4.8-.4h.6c.2 0 .4 0 .6.5l.8 2c.1.2.1.4 0 .6l-.3.5-.4.5c-.1.1-.3.3-.1.6.2.3.8 1.3 1.7 2.1 1.2 1 2.1 1.4 2.4 1.5.3.1.5.1.7-.1l.9-1.1c.2-.3.4-.2.7-.1l1.9.9c.3.1.5.2.6.3.1.2.1.8-.1 1.4Z"/></svg>Perguntar pelo WhatsApp</a><span class="btn btn-online" aria-disabled="true" title="No site oficial, abre o sistema de reservas da pousada"><svg class="ico" viewBox="0 0 24 24" fill="none" stroke="currentColor" stroke-width="2" stroke-linecap="round" aria-hidden="true"><rect x="3.5" y="5" width="17" height="15" rx="2"/><path d="M3.5 10h17M8 3v4M16 3v4M8.5 14.5l2 2 4-4"/></svg>Reservar online</span><a class="btn btn-2" href="tel:+554733050120"><svg class="ico" viewBox="0 0 24 24" aria-hidden="true"><path fill="currentColor" d="M6.6 2.5 9 2c.5-.1 1 .2 1.2.7l1.3 3.5c.2.4 0 .9-.3 1.2L9.5 8.9a13 13 0 0 0 5.6 5.6l1.5-1.7c.3-.3.8-.5 1.2-.3l3.5 1.3c.5.2.8.7.7 1.2l-.5 2.4c-.3 1.2-1.3 2-2.5 2C10.4 19.4 4.6 13.6 4.6 5c0-1.2.8-2.2 2-2.5Z"/></svg>Ligar<span class="num">&nbsp;(47) 3305-0120</span></a></div><p class="nota-online"><svg class="ico" viewBox="0 0 24 24" fill="none" stroke="currentColor" stroke-width="2" stroke-linecap="round" aria-hidden="true"><circle cx="12" cy="12" r="9"/><path d="M12 11v5M12 8h.01"/></svg>Reserva online: no site oficial, este botão leva ao mesmo sistema de reservas que vocês já usam.</p>
     <ul class="itens col2">
       <li><svg viewBox="0 0 24 24" fill="none" stroke="currentColor" stroke-width="1.8" stroke-linecap="round" stroke-linejoin="round" aria-hidden="true"><circle cx="12" cy="12" r="9"/><path d="M12 7v5l3 2"/></svg><div><b>Check-in a partir das 14h</b><span>Check-out até as 11h.</span></div></li>
       <li><svg viewBox="0 0 24 24" fill="none" stroke="currentColor" stroke-width="1.8" stroke-linecap="round" stroke-linejoin="round" aria-hidden="true"><path d="M4 17h16M6 17a6 6 0 0 1 12 0M12 8V6M10 6h4"/></svg><div><b>Recepção diariamente até as 22h</b><span>Atendimento para o que precisar durante a estadia.</span></div></li>
@@ -80,7 +80,7 @@
   <div class="caixa">
     <h2>Reserve direto com a recepção</h2>
     <p>Mande as datas pelo WhatsApp. A mensagem já vai pronta: só falta completar a entrada, a saída e quantas pessoas.</p>
-    <div class="acoes"><a class="btn" href="https://wa.me/554733050120?text=Ol%C3%A1%21%20Vi%20o%20site%20da%20Pousada%20S%C3%A3o%20Jos%C3%A9%20e%20quero%20consultar%20disponibilidade.%0AEntrada%3A%20%0ASa%C3%ADda%3A%20%0APessoas%3A%20"><svg class="ico" viewBox="0 0 24 24" aria-hidden="true"><path fill="currentColor" d="M12 2a10 10 0 0 0-8.6 15.1L2 22l5-1.3A10 10 0 1 0 12 2Zm5.7 14.2c-.2.7-1.4 1.3-2 1.4-.5.1-1.2.1-1.9-.1-.4-.1-1-.3-1.7-.6-3-1.3-4.9-4.3-5.1-4.5-.1-.2-1.2-1.6-1.2-3 0-1.4.8-2.1 1-2.4.3-.3.6-.4.8-.4h.6c.2 0 .4 0 .6.5l.8 2c.1.2.1.4 0 .6l-.3.5-.4.5c-.1.1-.3.3-.1.6.2.3.8 1.3 1.7 2.1 1.2 1 2.1 1.4 2.4 1.5.3.1.5.1.7-.1l.9-1.1c.2-.3.4-.2.7-.1l1.9.9c.3.1.5.2.6.3.1.2.1.8-.1 1.4Z"/></svg>Reservar pelo WhatsApp</a><a class="btn btn-2" href="tel:+554733050120"><svg class="ico" viewBox="0 0 24 24" aria-hidden="true"><path fill="currentColor" d="M6.6 2.5 9 2c.5-.1 1 .2 1.2.7l1.3 3.5c.2.4 0 .9-.3 1.2L9.5 8.9a13 13 0 0 0 5.6 5.6l1.5-1.7c.3-.3.8-.5 1.2-.3l3.5 1.3c.5.2.8.7.7 1.2l-.5 2.4c-.3 1.2-1.3 2-2.5 2C10.4 19.4 4.6 13.6 4.6 5c0-1.2.8-2.2 2-2.5Z"/></svg>Ligar (47) 3305-0120</a></div>
+    <div class="acoes"><a class="btn" href="https://wa.me/554733050120?text=Ol%C3%A1%21%20Vi%20o%20site%20da%20Pousada%20S%C3%A3o%20Jos%C3%A9%20e%20quero%20consultar%20disponibilidade.%0AEntrada%3A%20%0ASa%C3%ADda%3A%20%0APessoas%3A%20"><svg class="ico" viewBox="0 0 24 24" aria-hidden="true"><path fill="currentColor" d="M12 2a10 10 0 0 0-8.6 15.1L2 22l5-1.3A10 10 0 1 0 12 2Zm5.7 14.2c-.2.7-1.4 1.3-2 1.4-.5.1-1.2.1-1.9-.1-.4-.1-1-.3-1.7-.6-3-1.3-4.9-4.3-5.1-4.5-.1-.2-1.2-1.6-1.2-3 0-1.4.8-2.1 1-2.4.3-.3.6-.4.8-.4h.6c.2 0 .4 0 .6.5l.8 2c.1.2.1.4 0 .6l-.3.5-.4.5c-.1.1-.3.3-.1.6.2.3.8 1.3 1.7 2.1 1.2 1 2.1 1.4 2.4 1.5.3.1.5.1.7-.1l.9-1.1c.2-.3.4-.2.7-.1l1.9.9c.3.1.5.2.6.3.1.2.1.8-.1 1.4Z"/></svg>Reservar pelo WhatsApp</a><span class="btn btn-online" aria-disabled="true" title="No site oficial, abre o sistema de reservas da pousada"><svg class="ico" viewBox="0 0 24 24" fill="none" stroke="currentColor" stroke-width="2" stroke-linecap="round" aria-hidden="true"><rect x="3.5" y="5" width="17" height="15" rx="2"/><path d="M3.5 10h17M8 3v4M16 3v4M8.5 14.5l2 2 4-4"/></svg>Reservar online</span><a class="btn btn-2" href="tel:+554733050120"><svg class="ico" viewBox="0 0 24 24" aria-hidden="true"><path fill="currentColor" d="M6.6 2.5 9 2c.5-.1 1 .2 1.2.7l1.3 3.5c.2.4 0 .9-.3 1.2L9.5 8.9a13 13 0 0 0 5.6 5.6l1.5-1.7c.3-.3.8-.5 1.2-.3l3.5 1.3c.5.2.8.7.7 1.2l-.5 2.4c-.3 1.2-1.3 2-2.5 2C10.4 19.4 4.6 13.6 4.6 5c0-1.2.8-2.2 2-2.5Z"/></svg>Ligar<span class="num">&nbsp;(47) 3305-0120</span></a></div><p class="nota-online"><svg class="ico" viewBox="0 0 24 24" fill="none" stroke="currentColor" stroke-width="2" stroke-linecap="round" aria-hidden="true"><circle cx="12" cy="12" r="9"/><path d="M12 11v5M12 8h.01"/></svg>Reserva online: no site oficial, este botão leva ao mesmo sistema de reservas que vocês já usam.</p>
   </div>
 </section>
 </main>

diff --git a/pousada-sao-jose-joinville-sc/localizacao.html b/pousada-sao-jose-joinville-sc/localizacao.html
@@ -31,7 +31,7 @@
       <h1>Onde fica</h1>
       <p class="intro">Av. Getúlio Vargas, 241, Bucarein, Joinville (SC), CEP 89202-204. Em frente ao Hospital São José.</p>
       <p>O acesso lateral do prédio é pela Rua Américo Matrangola, 38.</p>
-      <div class="acoes" id="cta"><a class="btn" href="https://wa.me/554733050120?text=Ol%C3%A1%21%20Vi%20o%20site%20da%20Pousada%20S%C3%A3o%20Jos%C3%A9%20e%20quero%20consultar%20disponibilidade.%0AEntrada%3A%20%0ASa%C3%ADda%3A%20%0APessoas%3A%20"><svg class="ico" viewBox="0 0 24 24" aria-hidden="true"><path fill="currentColor" d="M12 2a10 10 0 0 0-8.6 15.1L2 22l5-1.3A10 10 0 1 0 12 2Zm5.7 14.2c-.2.7-1.4 1.3-2 1.4-.5.1-1.2.1-1.9-.1-.4-.1-1-.3-1.7-.6-3-1.3-4.9-4.3-5.1-4.5-.1-.2-1.2-1.6-1.2-3 0-1.4.8-2.1 1-2.4.3-.3.6-.4.8-.4h.6c.2 0 .4 0 .6.5l.8 2c.1.2.1.4 0 .6l-.3.5-.4.5c-.1.1-.3.3-.1.6.2.3.8 1.3 1.7 2.1 1.2 1 2.1 1.4 2.4 1.5.3.1.5.1.7-.1l.9-1.1c.2-.3.4-.2.7-.1l1.9.9c.3.1.5.2.6.3.1.2.1.8-.1 1.4Z"/></svg>Falar com a recepção</a><a class="btn btn-2" href="tel:+554733050120"><svg class="ico" viewBox="0 0 24 24" aria-hidden="true"><path fill="currentColor" d="M6.6 2.5 9 2c.5-.1 1 .2 1.2.7l1.3 3.5c.2.4 0 .9-.3 1.2L9.5 8.9a13 13 0 0 0 5.6 5.6l1.5-1.7c.3-.3.8-.5 1.2-.3l3.5 1.3c.5.2.8.7.7 1.2l-.5 2.4c-.3 1.2-1.3 2-2.5 2C10.4 19.4 4.6 13.6 4.6 5c0-1.2.8-2.2 2-2.5Z"/></svg>Ligar (47) 3305-0120</a></div>
+      <div class="acoes" id="cta"><a class="btn" href="https://wa.me/554733050120?text=Ol%C3%A1%21%20Vi%20o%20site%20da%20Pousada%20S%C3%A3o%20Jos%C3%A9%20e%20quero%20consultar%20disponibilidade.%0AEntrada%3A%20%0ASa%C3%ADda%3A%20%0APessoas%3A%20"><svg class="ico" viewBox="0 0 24 24" aria-hidden="true"><path fill="currentColor" d="M12 2a10 10 0 0 0-8.6 15.1L2 22l5-1.3A10 10 0 1 0 12 2Zm5.7 14.2c-.2.7-1.4 1.3-2 1.4-.5.1-1.2.1-1.9-.1-.4-.1-1-.3-1.7-.6-3-1.3-4.9-4.3-5.1-4.5-.1-.2-1.2-1.6-1.2-3 0-1.4.8-2.1 1-2.4.3-.3.6-.4.8-.4h.6c.2 0 .4 0 .6.5l.8 2c.1.2.1.4 0 .6l-.3.5-.4.5c-.1.1-.3.3-.1.6.2.3.8 1.3 1.7 2.1 1.2 1 2.1 1.4 2.4 1.5.3.1.5.1.7-.1l.9-1.1c.2-.3.4-.2.7-.1l1.9.9c.3.1.5.2.6.3.1.2.1.8-.1 1.4Z"/></svg>Falar com a recepção</a><span class="btn btn-online" aria-disabled="true" title="No site oficial, abre o sistema de reservas da pousada"><svg class="ico" viewBox="0 0 24 24" fill="none" stroke="currentColor" stroke-width="2" stroke-linecap="round" aria-hidden="true"><rect x="3.5" y="5" width="17" height="15" rx="2"/><path d="M3.5 10h17M8 3v4M16 3v4M8.5 14.5l2 2 4-4"/></svg>Reservar online</span><a class="btn btn-2" href="tel:+554733050120"><svg class="ico" viewBox="0 0 24 24" aria-hidden="true"><path fill="currentColor" d="M6.6 2.5 9 2c.5-.1 1 .2 1.2.7l1.3 3.5c.2.4 0 .9-.3 1.2L9.5 8.9a13 13 0 0 0 5.6 5.6l1.5-1.7c.3-.3.8-.5 1.2-.3l3.5 1.3c.5.2.8.7.7 1.2l-.5 2.4c-.3 1.2-1.3 2-2.5 2C10.4 19.4 4.6 13.6 4.6 5c0-1.2.8-2.2 2-2.5Z"/></svg>Ligar<span class="num">&nbsp;(47) 3305-0120</span></a></div><p class="nota-online"><svg class="ico" viewBox="0 0 24 24" fill="none" stroke="currentColor" stroke-width="2" stroke-linecap="round" aria-hidden="true"><circle cx="12" cy="12" r="9"/><path d="M12 11v5M12 8h.01"/></svg>Reserva online: no site oficial, este botão leva ao mesmo sistema de reservas que vocês já usam.</p>
     </div>
     <figure><img src="img/corredor-quartos-944.webp" width="944" height="768" alt="Corredor do andar de cima com as portas dos quartos" loading="lazy" decoding="async"></figure>
   </div>
@@ -66,7 +66,7 @@
   <div class="caixa">
     <h2>Reserve direto com a recepção</h2>
     <p>Mande as datas pelo WhatsApp. A mensagem já vai pronta: só falta completar a entrada, a saída e quantas pessoas.</p>
-    <div class="acoes"><a class="btn" href="https://wa.me/554733050120?text=Ol%C3%A1%21%20Vi%20o%20site%20da%20Pousada%20S%C3%A3o%20Jos%C3%A9%20e%20quero%20consultar%20disponibilidade.%0AEntrada%3A%20%0ASa%C3%ADda%3A%20%0APessoas%3A%20"><svg class="ico" viewBox="0 0 24 24" aria-hidden="true"><path fill="currentColor" d="M12 2a10 10 0 0 0-8.6 15.1L2 22l5-1.3A10 10 0 1 0 12 2Zm5.7 14.2c-.2.7-1.4 1.3-2 1.4-.5.1-1.2.1-1.9-.1-.4-.1-1-.3-1.7-.6-3-1.3-4.9-4.3-5.1-4.5-.1-.2-1.2-1.6-1.2-3 0-1.4.8-2.1 1-2.4.3-.3.6-.4.8-.4h.6c.2 0 .4 0 .6.5l.8 2c.1.2.1.4 0 .6l-.3.5-.4.5c-.1.1-.3.3-.1.6.2.3.8 1.3 1.7 2.1 1.2 1 2.1 1.4 2.4 1.5.3.1.5.1.7-.1l.9-1.1c.2-.3.4-.2.7-.1l1.9.9c.3.1.5.2.6.3.1.2.1.8-.1 1.4Z"/></svg>Reservar pelo WhatsApp</a><a class="btn btn-2" href="tel:+554733050120"><svg class="ico" viewBox="0 0 24 24" aria-hidden="true"><path fill="currentColor" d="M6.6 2.5 9 2c.5-.1 1 .2 1.2.7l1.3 3.5c.2.4 0 .9-.3 1.2L9.5 8.9a13 13 0 0 0 5.6 5.6l1.5-1.7c.3-.3.8-.5 1.2-.3l3.5 1.3c.5.2.8.7.7 1.2l-.5 2.4c-.3 1.2-1.3 2-2.5 2C10.4 19.4 4.6 13.6 4.6 5c0-1.2.8-2.2 2-2.5Z"/></svg>Ligar (47) 3305-0120</a></div>
+    <div class="acoes"><a class="btn" href="https://wa.me/554733050120?text=Ol%C3%A1%21%20Vi%20o%20site%20da%20Pousada%20S%C3%A3o%20Jos%C3%A9%20e%20quero%20consultar%20disponibilidade.%0AEntrada%3A%20%0ASa%C3%ADda%3A%20%0APessoas%3A%20"><svg class="ico" viewBox="0 0 24 24" aria-hidden="true"><path fill="currentColor" d="M12 2a10 10 0 0 0-8.6 15.1L2 22l5-1.3A10 10 0 1 0 12 2Zm5.7 14.2c-.2.7-1.4 1.3-2 1.4-.5.1-1.2.1-1.9-.1-.4-.1-1-.3-1.7-.6-3-1.3-4.9-4.3-5.1-4.5-.1-.2-1.2-1.6-1.2-3 0-1.4.8-2.1 1-2.4.3-.3.6-.4.8-.4h.6c.2 0 .4 0 .6.5l.8 2c.1.2.1.4 0 .6l-.3.5-.4.5c-.1.1-.3.3-.1.6.2.3.8 1.3 1.7 2.1 1.2 1 2.1 1.4 2.4 1.5.3.1.5.1.7-.1l.9-1.1c.2-.3.4-.2.7-.1l1.9.9c.3.1.5.2.6.3.1.2.1.8-.1 1.4Z"/></svg>Reservar pelo WhatsApp</a><span class="btn btn-online" aria-disabled="true" title="No site oficial, abre o sistema de reservas da pousada"><svg class="ico" viewBox="0 0 24 24" fill="none" stroke="currentColor" stroke-width="2" stroke-linecap="round" aria-hidden="true"><rect x="3.5" y="5" width="17" height="15" rx="2"/><path d="M3.5 10h17M8 3v4M16 3v4M8.5 14.5l2 2 4-4"/></svg>Reservar online</span><a class="btn btn-2" href="tel:+554733050120"><svg class="ico" viewBox="0 0 24 24" aria-hidden="true"><path fill="currentColor" d="M6.6 2.5 9 2c.5-.1 1 .2 1.2.7l1.3 3.5c.2.4 0 .9-.3 1.2L9.5 8.9a13 13 0 0 0 5.6 5.6l1.5-1.7c.3-.3.8-.5 1.2-.3l3.5 1.3c.5.2.8.7.7 1.2l-.5 2.4c-.3 1.2-1.3 2-2.5 2C10.4 19.4 4.6 13.6 4.6 5c0-1.2.8-2.2 2-2.5Z"/></svg>Ligar<span class="num">&nbsp;(47) 3305-0120</span></a></div><p class="nota-online"><svg class="ico" viewBox="0 0 24 24" fill="none" stroke="currentColor" stroke-width="2" stroke-linecap="round" aria-hidden="true"><circle cx="12" cy="12" r="9"/><path d="M12 11v5M12 8h.01"/></svg>Reserva online: no site oficial, este botão leva ao mesmo sistema de reservas que vocês já usam.</p>
   </div>
 </section>
 </main>

diff --git a/pousada-sao-jose-joinville-sc/estilo.css b/pousada-sao-jose-joinville-sc/estilo.css
@@ -78,7 +78,6 @@ p{margin:0 0 1em;max-width:66ch}
 .selo b{font-weight:600;color:#f3d9b8}
 .hero h1{margin-top:30px;margin-bottom:.35em}
 .hero .lead{font-size:1.1rem;color:var(--suave);margin-bottom:1.1em}
-.hero .acoes .btn{flex:1 1 auto}
 .preco{margin:16px 0 0;font-size:.98rem;color:var(--suave)}
 .preco strong{color:var(--texto)}
 @media (min-width:900px){
@@ -88,7 +87,6 @@ p{margin:0 0 1em;max-width:66ch}
   .hero-foto img{aspect-ratio:944/768;border-radius:var(--raio)}
   .selo{left:-22px;bottom:28px;font-size:1.1rem}
   .hero h1{margin-top:0}
-  .hero .acoes .btn{flex:0 0 auto}
 }
 
 /* faixas */
@@ -254,3 +252,26 @@ figcaption{font-size:.9rem;color:var(--suave);margin-top:6px}
 @media (min-width:900px){.barra{display:none}}
 .faixa-preco + .acoes{margin-top:20px}
 .acoes + .itens{margin-top:32px}
+
+/* reserva online: o motor do site oficial, mostrado sem link */
+.btn-online{background:var(--tinta);border-color:var(--tinta);color:#fff;cursor:default}
+.btn-online:hover{background:var(--tinta);border-color:var(--tinta)}
+.faixa-tinta .btn-online,.fecho .btn-online{background:#fff;border-color:#fff;color:var(--tinta)}
+.nota-online{display:flex;gap:6px;align-items:flex-start;font-size:.85rem;line-height:1.4;color:var(--suave);margin:10px 0 0;max-width:52ch}
+.nota-online .ico{width:1em;height:1em;margin-top:2px}
+.faixa-tinta .nota-online{color:#b9c6cb}
+.acoes .btn-online,.acoes .btn-2{flex:1 1 0}
+.acoes .btn:first-child{flex:1 1 100%}
+@media (max-width:599px){.acoes .num{display:none}}
+@media (min-width:600px){.acoes .btn:first-child{flex:0 0 auto}.acoes .btn-online,.acoes .btn-2{flex:0 0 auto}}
+
+/* o dia de quem acompanha alguém no hospital */
+.dia{list-style:none;padding:0;margin:24px 0 0;display:grid;gap:18px}
+.dia li{display:grid;grid-template-columns:78px 1fr;gap:14px;align-items:start}
+.dia .h{font:500 1.7rem/1 "Jost",sans-serif;color:var(--carvalho-2);border-top:3px solid var(--tinta);padding-top:8px}
+.dia b{display:block;color:var(--tinta);font-family:"Jost",sans-serif;font-weight:500;font-size:1.15rem;margin-bottom:2px}
+.dia li > span:last-child{color:var(--suave);padding-top:6px}
+.acomp figure img{border-radius:var(--raio);aspect-ratio:944/768;object-fit:cover}
+@media (min-width:900px){.acomp .duas{align-items:center}}
+@media (max-width:599px){.acoes .btn-online{flex:1.6 1 0;white-space:nowrap;padding-inline:.7em}.acoes .btn-2{padding-inline:.7em}}
+.acoes .num{margin-left:-.5em}
